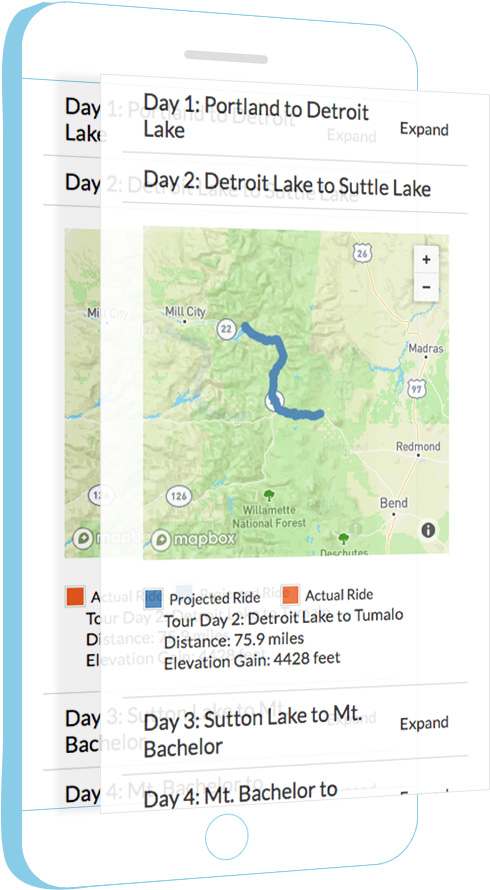
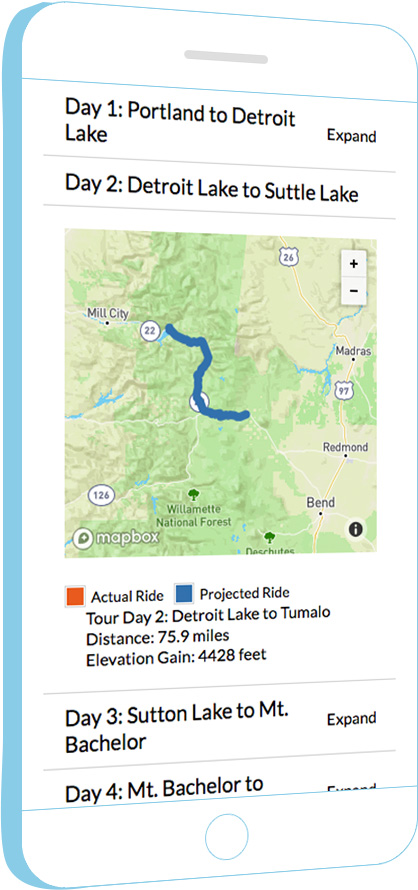
Added interactive image element to tour callout

diff --git a/src/modules/BikeTour2018/BikeTour2018.js b/src/modules/BikeTour2018/BikeTour2018.js
@@ -5,6 +5,8 @@ import LayoutStyles from '../../components/LayoutStyles/LayoutStyles';
 import HeroContainer from '../../components/HeroContainer/HeroContainer';
 import DynamicWaypoints from '../../components/DynamicWaypoints/DynamicWaypoints';
 
+import BikePhoneSection from './BikePhoneSection';
+
 const { CenteredContent, FullBleed } = LayoutStyles;
 
 const sectionMap = [
@@ -23,7 +25,7 @@ const sectionMap = [
   {
     label: 'Description',
     content: <p style={{ maxWidth: '45em' }}>
-              As an avid bicycle tourer, I am often on the road for long stretches of time. Before any tour, I plan my ride and route to the best of my ability, knowing all the while that things can change while I am adventuring. With this in mind, I have been building a prototype application to aid in route planning and sharing. The main motivation behind this is to have a way to share my progress and with loved ones on a daily basis, keeping them in the know as I take on the unknown.
+              As an avid bicycle tourer, I can be on the road for long stretches of time. Before any tour, I plan my ride and route to the best of my ability, knowing all the while that things can change while I am adventuring. With this in mind, I have been building a prototype application to aid in route planning and sharing. The main motivation behind this is to have a way to share my progress and with loved ones on a daily basis, keeping them in the know as I take on the unknown.
              </p>,
     topOffset: '50px',
     bottomOffset: '5%'
@@ -31,7 +33,7 @@ const sectionMap = [
   {
     label: 'My Role',
     content: <p style={{ maxWidth: '45em', marginBottom: 50 }}>
-              The initial prototype for this project was written by myself using React, MapBox and the Strava API. It is an evolving project that will soon be market-ready.
+              This project is written with React, MapBox and the Strava API. It is an evolving project that will soon be market-ready.
              </p>,
              topOffset: '50px',
              bottomOffset: '5%'
@@ -46,17 +48,7 @@ const BikeTour2018 = (props) => {
         <DynamicWaypoints data={ sectionMap } />
       </CenteredContent>
       <CenteredContent>
-        <div style={{ display: 'flex' }}>
-          <div style={{ textAlign: 'center', height: 500, paddingLeft: 50 }}>
-            <img src="/images/bikeTourPhone1.jpg" style={{ height: '100%' }} />
-          </div>
-          <div style={{ flex: 1, padding: '70px 0 0 50px' }}>
-            <h2>Test</h2>
-            <p style={{ maxWidth: 600 }}>
-              Lorem ipsum dolor sit amet, consectetur adipiscing elit. Aliquam eget tempus tortor. Sed hendrerit lacinia nunc. Curabitur vitae feugiat enim. Ut porttitor diam a nisi auctor, in pretium risus volutpat. Donec maximus metus nec nisl lacinia posuere. Morbi a pellentesque metus. Sed tristique sapien.
-            </p>
-          </div>
-        </div>
+        <BikePhoneSection />
       </CenteredContent>
     </Container>
   );

diff --git a/src/modules/BikeTour2018/BikePhoneSection.js b/src/modules/BikeTour2018/BikePhoneSection.js
@@ -1,0 +1,67 @@
+import React from 'react';
+import styled from 'styled-components';
+
+import DynamicWaypoints from '../../components/DynamicWaypoints/DynamicWaypoints';
+
+const photoMap = [
+  {
+    label: 'Base Phone Image',
+    topOffset: '0',
+    bottomOffset: '10%',
+    content:  <div style={{ height: 500, position: 'absolute' }}>
+                <img src="/images/bikeTourPhone1.jpg" style={{ height: '100%' }} />
+              </div>
+  },
+  {
+    label: 'Layer 1',
+    topOffset: '10px',
+    bottomOffset: '40%',
+    content:  <div style={{ height: 400, position: 'absolute', left: 30, top: 50 }}>
+                <img src="/images/bikeTourPhone2.png" style={{ height: '100%' }} />
+              </div>
+  },
+  {
+    label: 'Layer 2',
+    topOffset: '15px',
+    bottomOffset: '60%',
+    content:  <div style={{ height: 350, position: 'absolute', left: 100, top: 70 }}>
+                <img src="/images/bikeTourPhone2.png" style={{ height: '100%' }} />
+              </div>
+  },
+];
+
+const textMap = [
+  {
+    label: 'header',
+    topOffset: '20px',
+    bottomOffset: '10%',
+    content: <h2>Keep Your Fans Up to Date</h2>
+  },
+  {
+    label: 'body',
+    topOffset: '20px',
+    bottomOffset: '10%',
+    content: <p style={{ maxWidth: 600 }}>
+          Every time you complete a section, your progress is updated on the map. Fans and loved ones can keep up to date on how the tour is progressing, when plans change and what lies ahead. Get peace of mind on the road with access to your tour itinerary and an easy way to interact with those still back at home.
+        </p>
+  }
+];
+
+const BikePhoneSection = (props) => {
+  return (
+    <Container>
+      <DynamicWaypoints data={ photoMap } />
+      <div style={{ flex: 2, padding: '70px 0 0 50px' }}>
+        <DynamicWaypoints data={ textMap } />
+      </div>
+    </Container>
+  );
+};
+
+export default BikePhoneSection;
+
+const Container = styled.div`
+  position: relative;
+  height: 500px;
+  display: flex;
+`;
